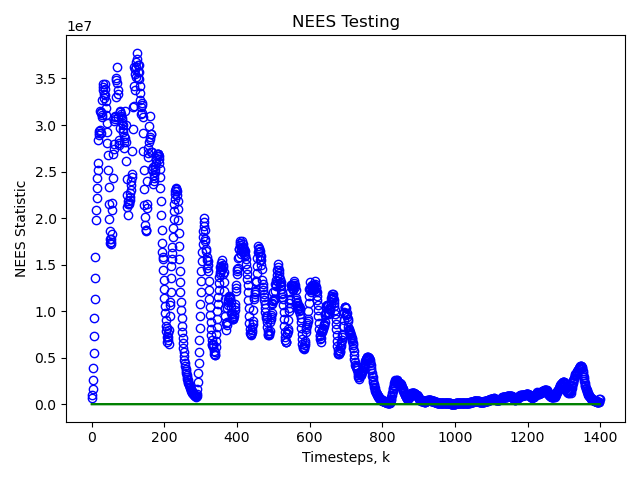
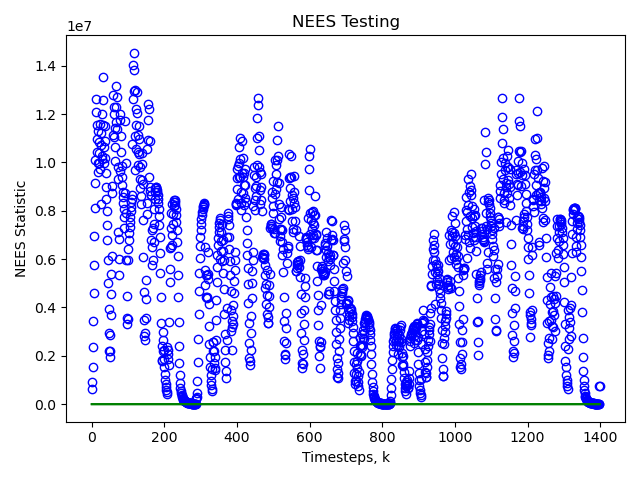
EKF Monte-Carlo Run

diff --git a/ASEN_5044_final_aj_fatah.py b/ASEN_5044_final_aj_fatah.py
@@ -1124,7 +1124,7 @@ if __name__ == "__main__":
     
     # Monte-Carlo parameters
     np.random.seed(100)  # Random Set Seed
-    num_mc_runs = 1     # Number of Monte-Carlo Runs
+    num_mc_runs = 20     # Number of Monte-Carlo Runs
     alpha = 0.05         # Confidence
     
     T_tot = round(np.sqrt((4*(np.pi**2)*(r0**3))/mu))   # orbital period, s
@@ -1162,11 +1162,11 @@ if __name__ == "__main__":
     
     # KF Tunings
     Q_LKF = np.eye(2) * 1e-6
-    Q_EKF = np.eye(2) * 1e-10
+    Q_EKF = np.eye(2) * 1e-8
     
     start = time()
-    NEES_array = []
-    NIS_array = []
+    # NEES_array = []
+    # NIS_array = []
     
     # for i in range(num_mc_runs):
         # res_lkf = LKF(x0, dT, T, Qtrue, Rtrue, ydata_sim, Q_LKF = Q_LKF)
@@ -1177,8 +1177,11 @@ if __name__ == "__main__":
     # NIS_Chi2_Test(np.asarray(NIS_array).T, num_meas, num_mc_runs, alpha)    
     # NEES_Chi2_Test(np.asarray(NEES_array).T, num_states, num_mc_runs, alpha)
     
+    NEES_array = []
+    NIS_array = []
+    
     for i in range(num_mc_runs):
-        res_ekf = EKF(x0, dT, T, Qtrue, Rtrue, ydata_sim, plot=True)
+        res_ekf = EKF(x0, dT, T, Qtrue, Rtrue, ydata_sim, Q_EKF = Q_EKF)
         NEES_array.append(res_ekf[3])
         NIS_array.append(res_ekf[4])
     print(time() - start)
